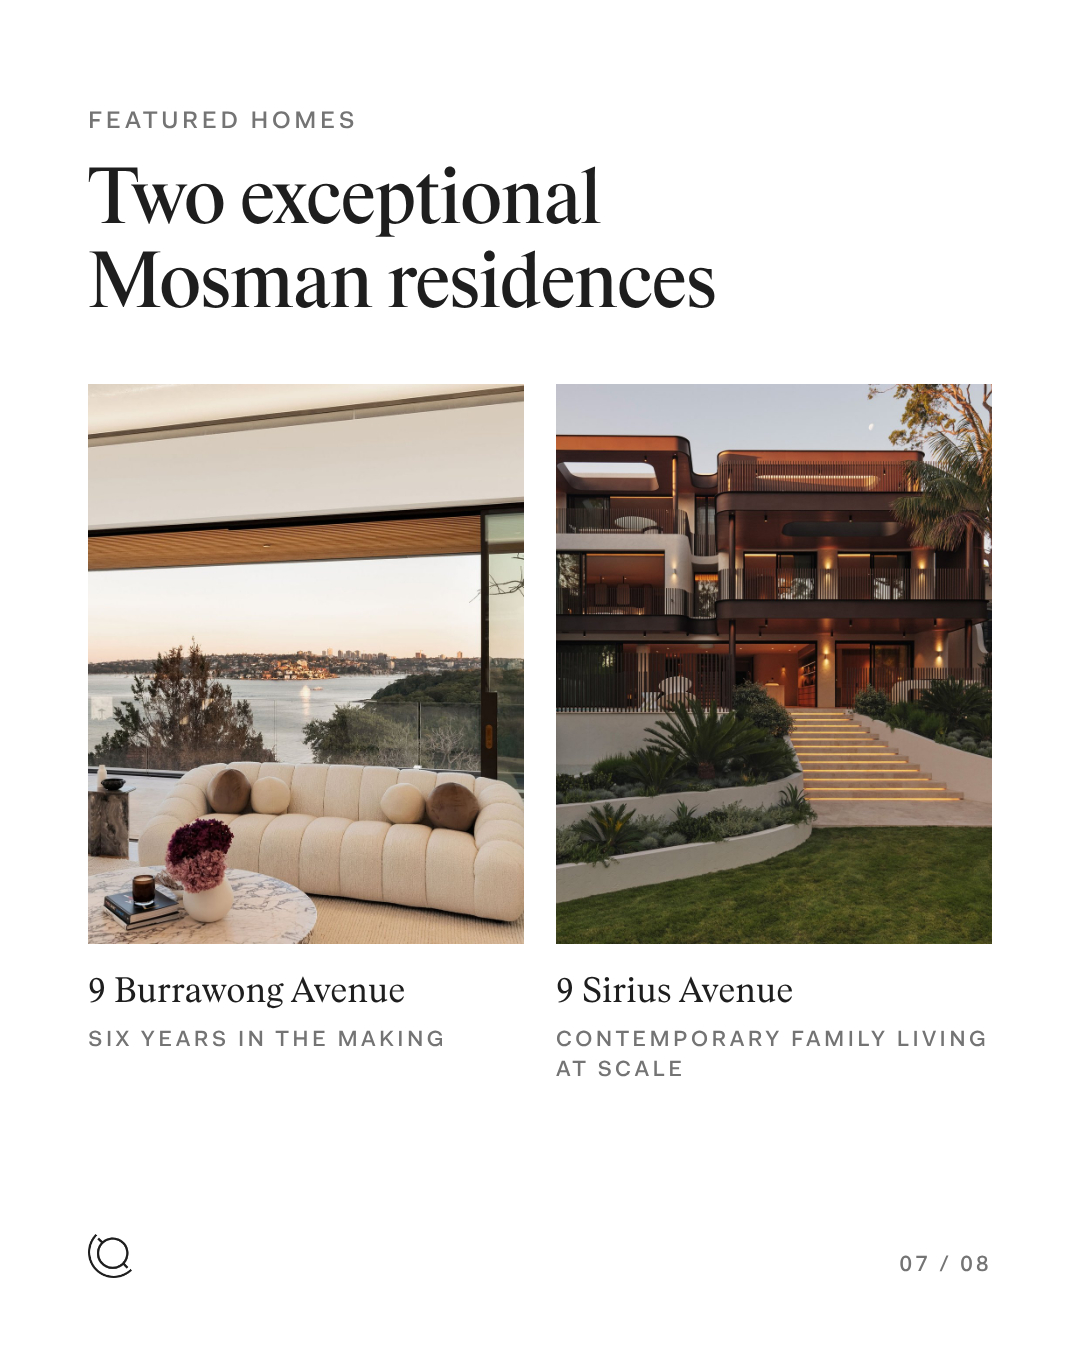
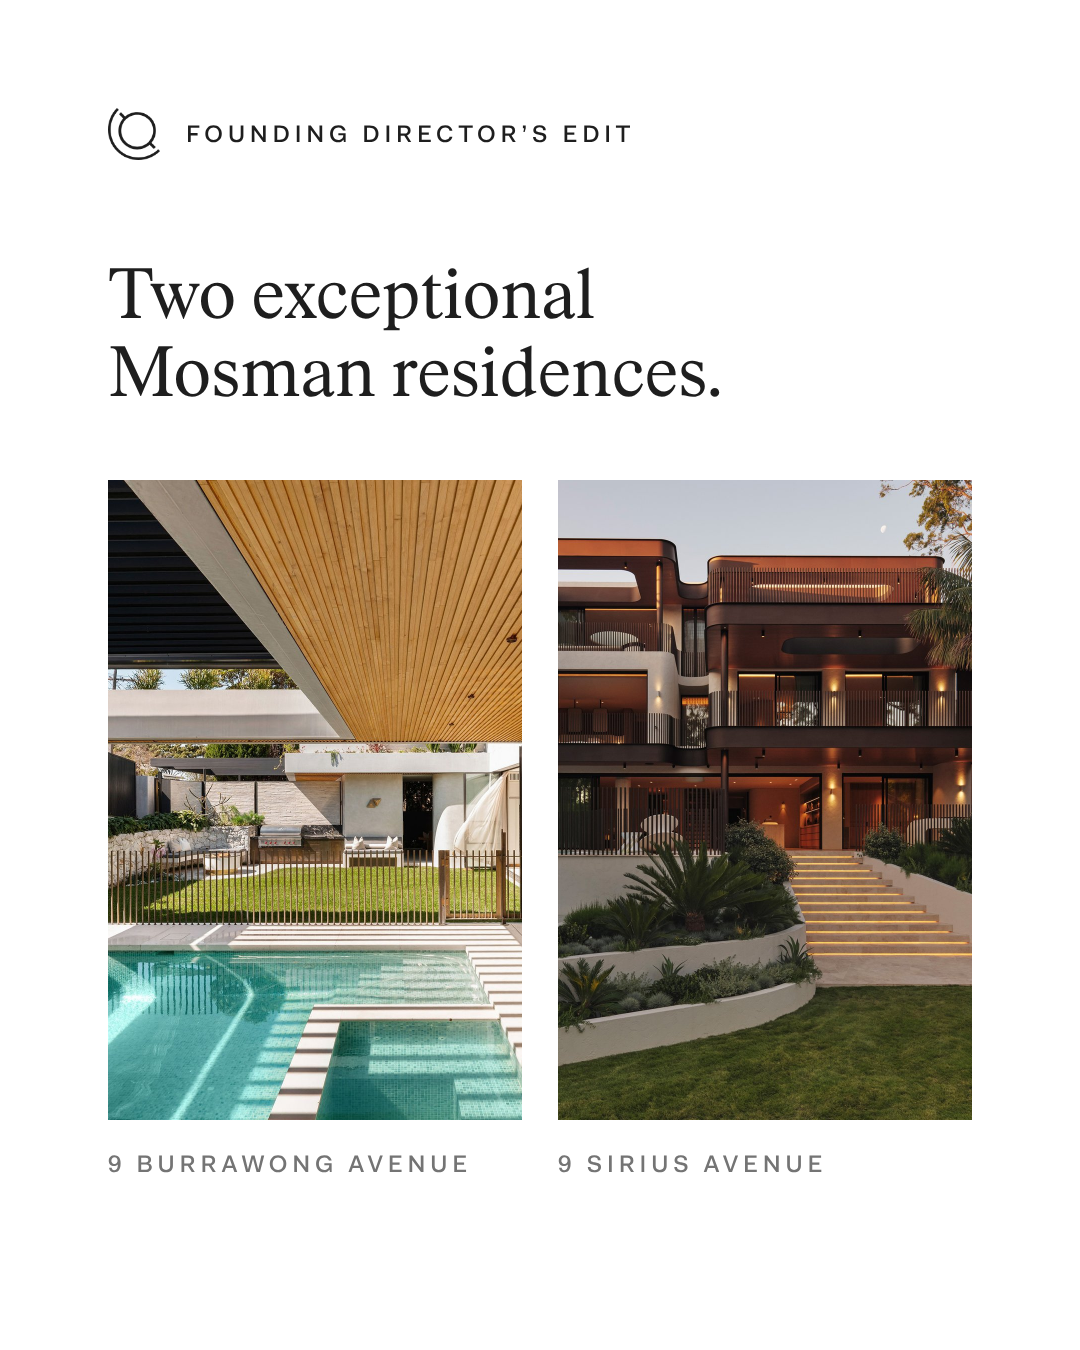
Founding Director's Edit carousel: align to Atlas feed-carousel style
Series tag top-left on every slide, photo-led layout, one line per slide,
Stone/White/Terra only, no page numbers, Stone end card with LINK IN BIO.

Claude-Session: https://claude.ai/code/session_01JwaQGF29hCT2wGxLRb5jt9

diff --git a/founding-directors-edit/2026-11-carousel/caption.md b/founding-directors-edit/2026-11-carousel/caption.md
@@ -1,7 +1,8 @@
 # Instagram carousel: Founding Director's Edit, Oct/Nov 2026
 
 8 slides, 1080 x 1350 (4:5). Post in order `01.png` to `08.png`.
-Built 10 Nov 2026 from the email as sent. Every line on the slides is Michael's approved copy, word for word.
+Built 10 Nov 2026 from the email as sent. Every line on the slides is Michael's approved copy, word for word (headlines take a full stop, as in other Atlas posts).
+Layout follows the Atlas feed carousels in Canva (Life and Local, Meet the Team, PM Case Study): brandmark and series tag top-left, photo-led slides, Stone, White and Terra, and a Stone end card with LINK IN BIO.
 
 ## Caption
 
